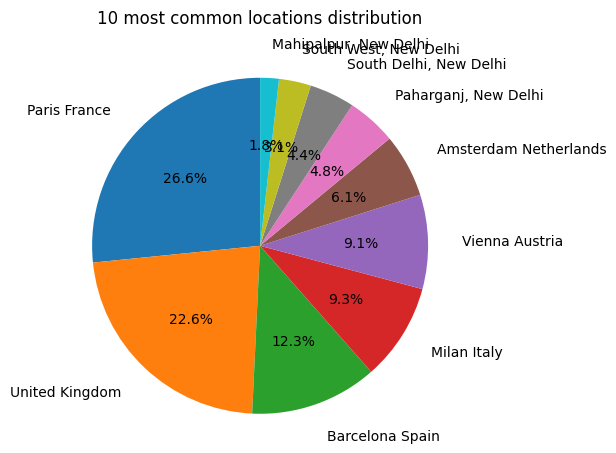
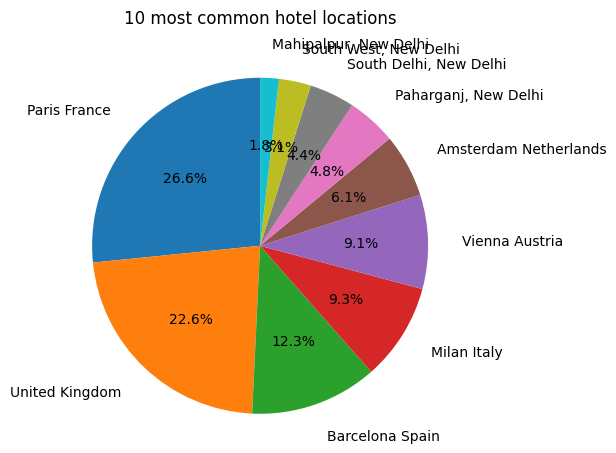
phase final

Changed region(s): [[0.1542, 0.0309, 0.6786, 0.0618]]

diff --git a/pipeline/data_analyze.py b/pipeline/data_analyze.py
@@ -77,6 +77,30 @@ def word_cloud():
     fig.savefig(PLOTS_PATH + "reviews_wordcloud.png")
     plt.close()
 
+def words_per_review(data_frame, index: int):
+
+    data_frame['word_count'] = data_frame['review_text'].apply(lambda x: len(str(x).split(' ')))
+    mean_word_count = data_frame['word_count'].mean()
+    limits = {
+        1: 800,
+        2: 150,
+        3: 1000,
+        4: 300
+    }
+
+    # Bar chart
+    plt.figure(figsize=(10, 6))
+    plt.bar(data_frame.index, data_frame['word_count'], label='Number of Words')
+    plt.axhline(mean_word_count, color='red', linestyle='dashed', label='Mean Word Count')
+    plt.text(0, mean_word_count, f'{mean_word_count:.2f}', color='red', va='center', ha='right')
+    plt.xlabel('Review Index')
+    plt.ylabel('Number of Words')
+    plt.title(f'Number of Words in Hotel Reviews {index}')
+    plt.ylim(0, limits[index])
+    plt.legend()
+    plt.savefig(PLOTS_PATH + f'word_count_{index}.png')
+    plt.close()
+
 def location_distribution(data):
 
     data = pd.DataFrame(data)
@@ -89,7 +113,7 @@ def location_distribution(data):
     fig, ax = plt.subplots()
     ax.pie(top_10_locations, labels=top_10_locations.index, autopct='%1.1f%%', startangle=90, labeldistance=1.2)
     ax.axis('equal')
-    ax.set_title('10 most common locations distribution', y=1.08)
+    ax.set_title('10 most common hotel locations', y=1.08)
 
     # Save progress
     fig.savefig(PLOTS_PATH + "location_distribution.png", bbox_inches='tight')
@@ -118,11 +142,11 @@ def date_distribution_years(data):
         for review in hotel['reviews']:
             review_dates.append(int(review['date'].split('-')[0]))
 
-    # Create a histogram
+    # Histogram
     plt.hist(review_dates, bins=range(2010, 2023), edgecolor='k')
     plt.xlabel('Year')
     plt.ylabel('Frequency')
-    plt.title('Review date distribution')
+    plt.title('Reviews distribution by year')
     plt.xlim(2010, 2024)
     plt.savefig(PLOTS_PATH + "date_distributions.png")
     plt.close()
@@ -137,7 +161,7 @@ def date_distribution_months(data, selected_year: int):
             if int(year) == selected_year:
                 review_dates.append(int(month))
 
-    # Create a histogram
+    # Histogram
     plt.hist(review_dates, bins=range(1, 13, 1), edgecolor='k')
     plt.xlabel(f'Months {selected_year}')
     plt.ylabel('Frequency')

diff --git a/pipeline/data_normalize.py b/pipeline/data_normalize.py
@@ -4,6 +4,7 @@ import numpy as np
 import re
 from unidecode import unidecode
 from utils import writeToFile
+from data_analyze import words_per_review
 
 def combine_reviews(row):
 
@@ -102,6 +103,9 @@ def normalize(index: int):
 
     # String encoding and format
     data_frame = data_frame.map(lambda text: formatText(text) if isinstance(text, str) else text)
+
+    # Analyze average words per review before filtering
+    words_per_review(data_frame, index)
 
     # Filter reviews based on the number of words
     data_frame = limit_words_per_review(data_frame)

diff --git a/README.md b/README.md
@@ -12,11 +12,19 @@
 
 ### Location distribution
 
-![Locations Distribution](./imgs/locations_distribution.png)
+![Locations Distribution](./imgs/location_distribution.png)
 
 ### Average review rating distribution
 
-![Average Review Rating Distribution](./imgs/reviews_distribution.png)
+![Average Review Rating Distribution](./imgs/rating_distributions.png)
+
+### Reviews distribution by year
+
+![Reviews distribution by year](./imgs/date_distributions.png)
+
+### Reviews distribution by month - year 2016
+
+![Reviews distribution by year](./imgs/date_distributions_2016.png)
 
 ## Run 
 
